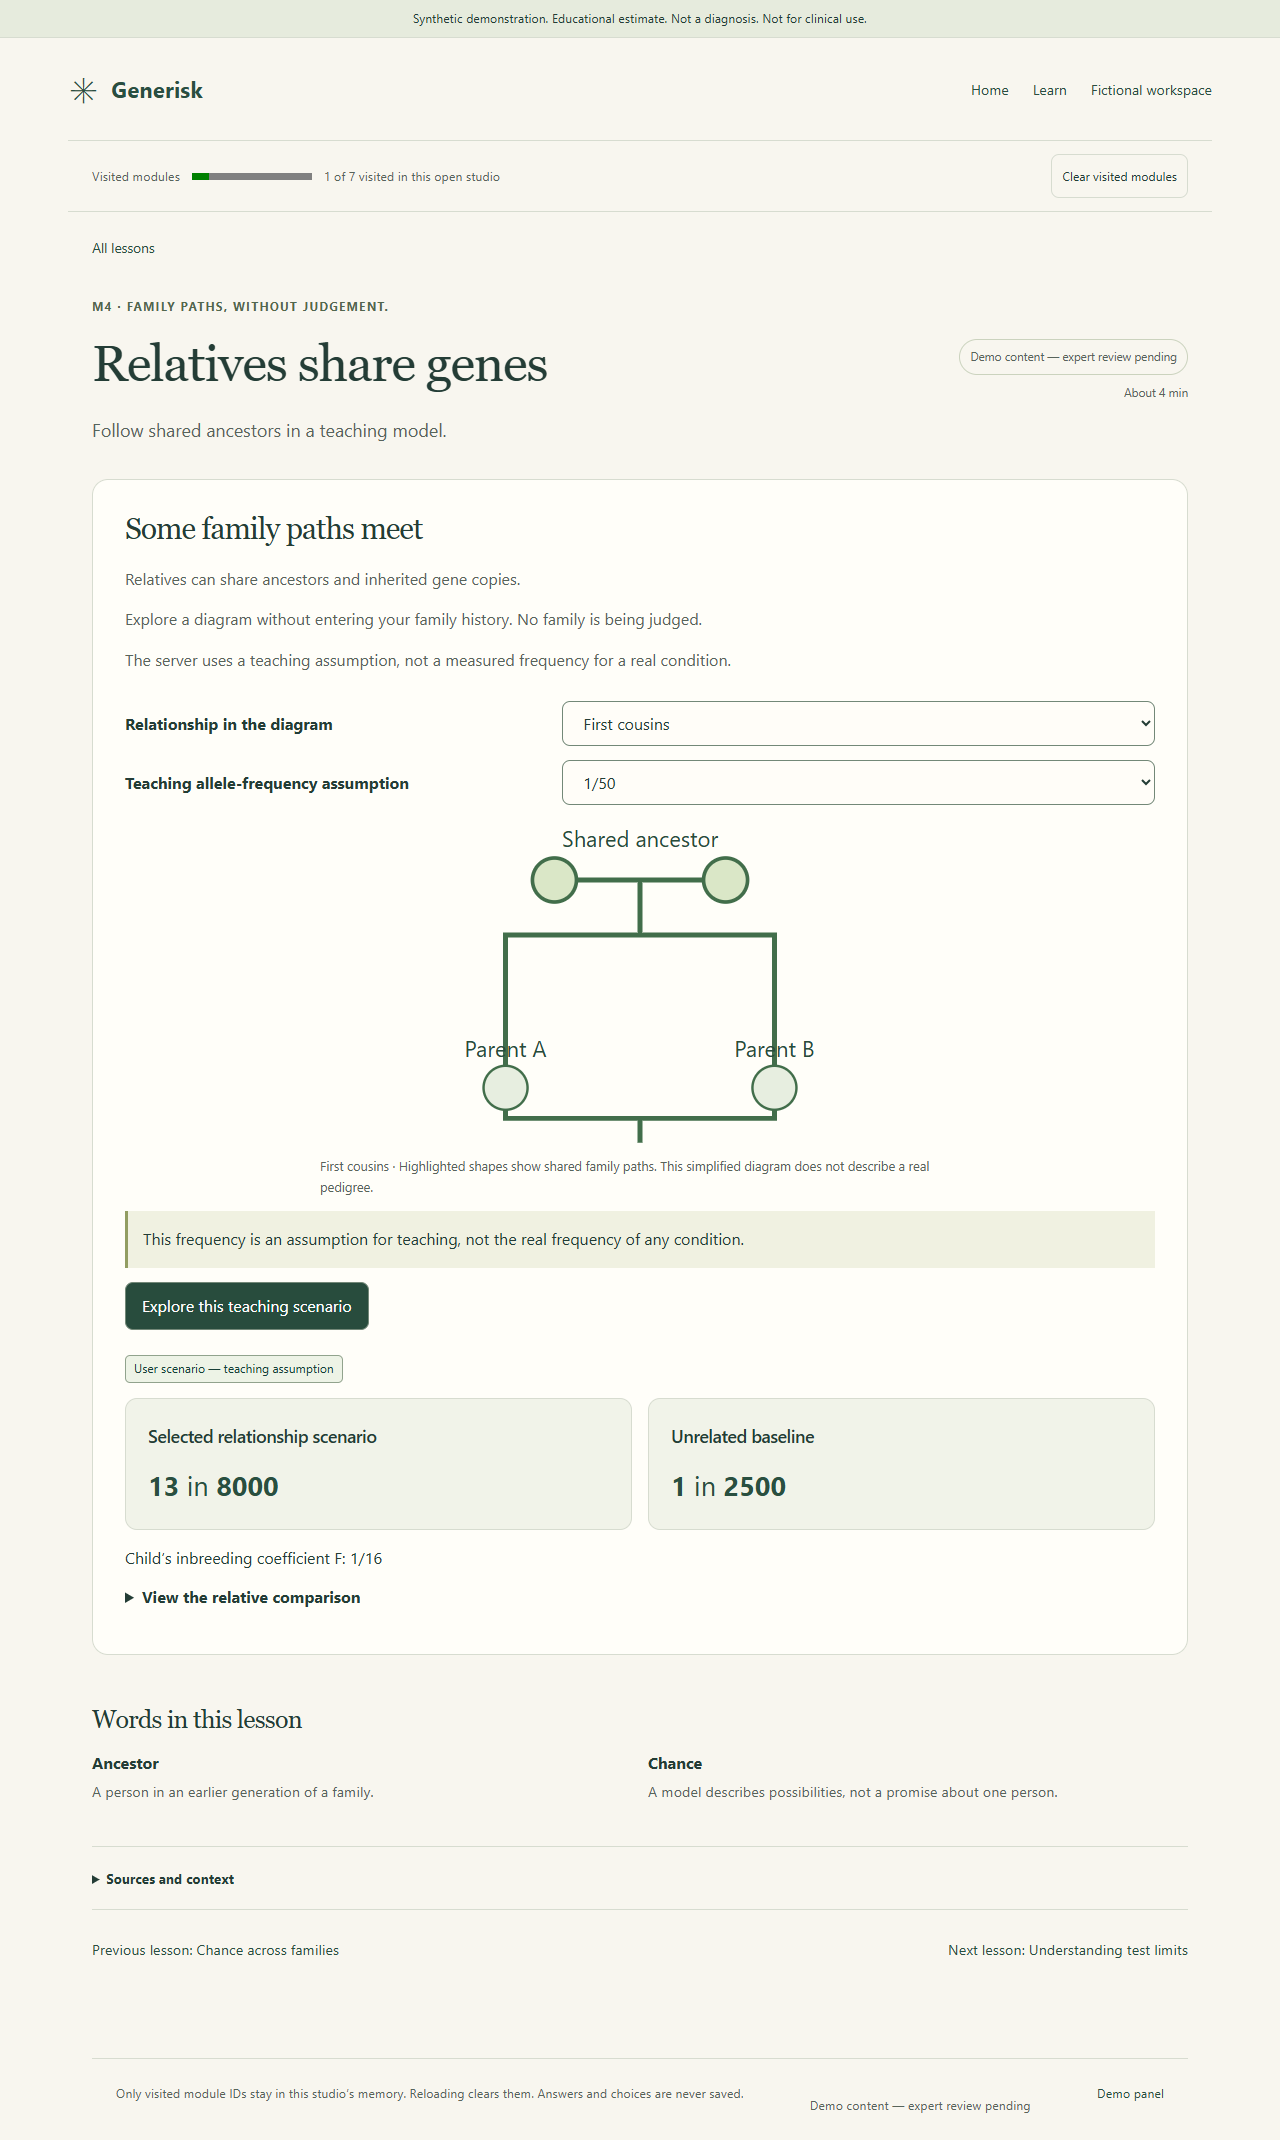
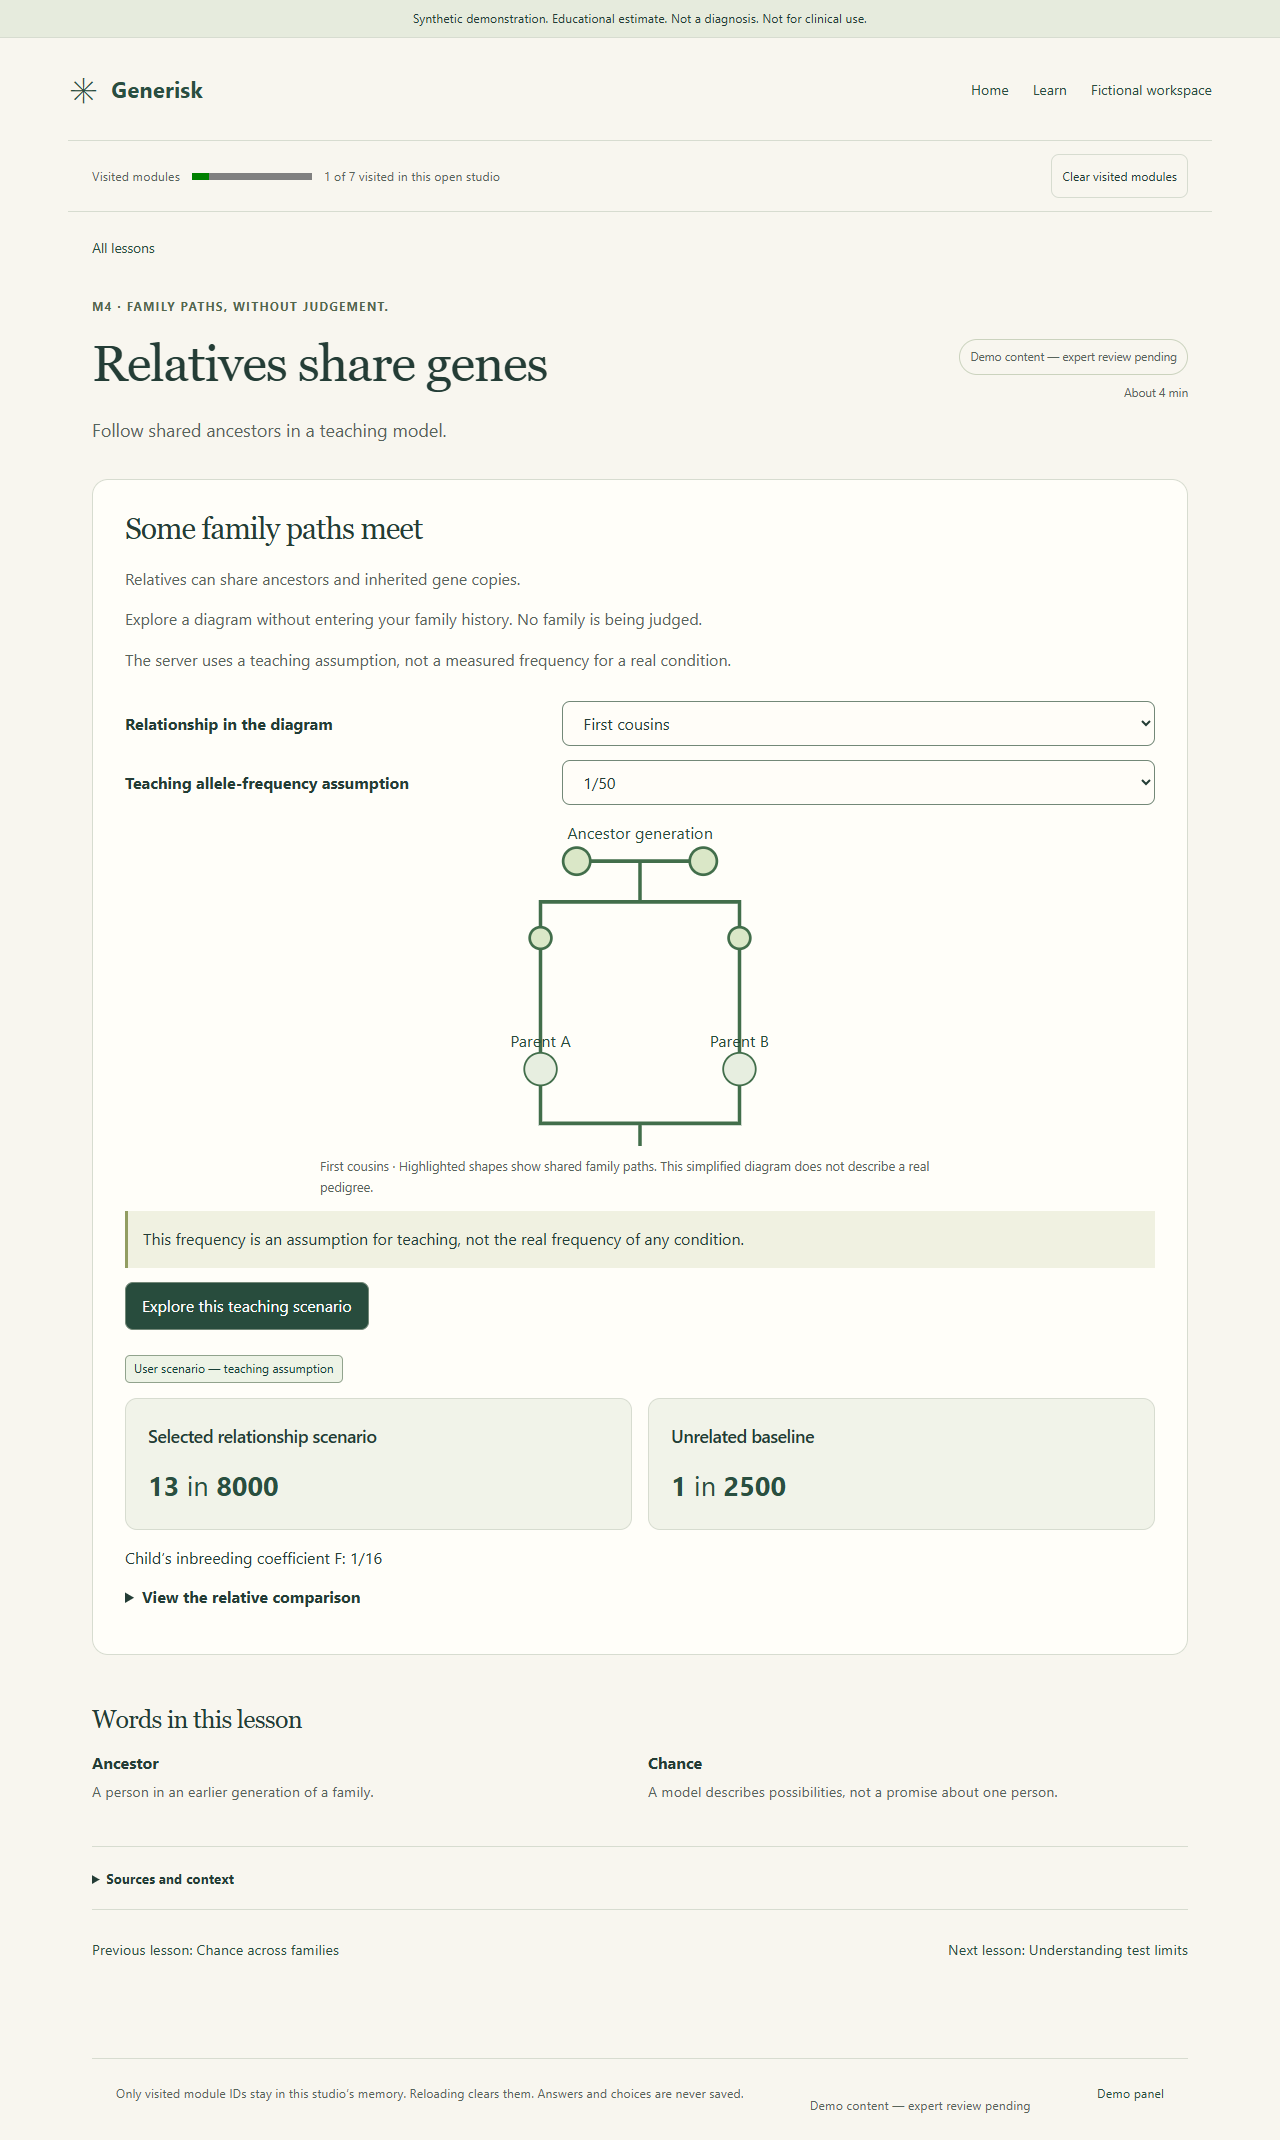
fix(p07): show correct cousin generations with regression coverage

Changed region(s): [[0.375, 0.3701, 0.625, 0.5243]]

diff --git a/apps/web/src/components/learn/server-widgets.tsx b/apps/web/src/components/learn/server-widgets.tsx
@@ -23,44 +23,74 @@ function FamilyDiagram({ relationship }: { relationship: Relationship }) {
   const double = relationship === "double_first_cousins";
   const removed = relationship === "first_cousins_once_removed";
   const second = relationship === "second_cousins";
+  // Each intermediate circle is a generation, not an inferred family member.
+  // Double first cousins share both ancestor couples through two sibling pairs.
+  const ancestorXs = double ? [70, 130, 310, 370] : [150, 290];
+  const intermediate = double
+    ? [
+        { x: 70, y: 130 },
+        { x: 140, y: 130 },
+        { x: 300, y: 130 },
+        { x: 370, y: 130 },
+      ]
+    : related
+      ? [
+          { x: 110, y: 125 },
+          { x: 330, y: 125 },
+          ...(second ? [{ x: 110, y: 200 }] : []),
+          ...(second || removed ? [{ x: 330, y: 200 }] : []),
+        ]
+      : [];
+  const a = { x: double ? 105 : 110, y: removed ? 240 : 270 };
+  const b = { x: double ? 335 : 330, y: removed ? 300 : 270 };
   return (
     <figure className="family-diagram">
-      <svg viewBox="0 0 440 270" role="img" aria-label={ui.family_tree}>
+      <svg viewBox="0 0 440 365" role="img" aria-label={ui.family_tree}>
         <g className={related ? "tree-path shared" : "tree-path"} fill="none">
-          <path
-            d={
-              related
-                ? "M150 45H290M220 45V90H110V215M220 90H330V215"
-                : "M150 45V90H110V215M290 45V90H330V215"
-            }
-          />
-          {double && (
-            <path d="M90 45H150M120 45V115H110M290 45H350M320 45V115H330" />
+          {double ? (
+            <>
+              <path d="M70 40H130M100 40V80H140V130M100 80H300V130" />
+              <path d="M310 40H370M340 40V100H70V130M340 100H370V130" />
+              <path d="M70 130H140M105 130V270M300 130H370M335 130V270" />
+            </>
+          ) : related ? (
+            <path
+              d={`M150 40H290M220 40V85H110V125M220 85H330V125M110 125V${a.y}M330 125V${b.y}`}
+            />
+          ) : (
+            <path d="M150 40V85H110V270M290 40V85H330V270" />
           )}
-          {second && (
-            <path d="M110 90V125H140V165H110M330 90V125H300V165H330" />
-          )}
-          {removed && <path d="M330 155V185H365V215" />}
-          <path d="M110 215V240H330V215M220 240V260" />
+          <path d={`M${a.x} ${a.y}V330H${b.x}V${b.y}M220 330V355`} />
         </g>
-        {(double ? [90, 150, 290, 350] : [150, 290]).map((x) => (
+        {ancestorXs.map((x) => (
           <g
             key={x}
             className={related ? "ancestor-node shared" : "ancestor-node"}
           >
-            <circle cx={x} cy={45} r={18} />
+            <circle cx={x} cy={40} r={15} />
           </g>
         ))}
-        <text x="220" y="18" textAnchor="middle">
+        <text x="220" y="15" textAnchor="middle">
           {ui.ancestor}
         </text>
+        <g className={related ? "ancestor-node shared" : "ancestor-node"}>
+          {intermediate.map(({ x, y }) => (
+            <circle
+              key={`${x}-${y}`}
+              cx={x}
+              cy={y}
+              r={12}
+              data-generation-node="true"
+            />
+          ))}
+        </g>
         <g className="tree-person">
-          <circle cx="110" cy="215" r="18" />
-          <text x="110" y="190" textAnchor="middle">
+          <circle cx={a.x} cy={a.y} r={18} />
+          <text x={a.x} y={a.y - 25} textAnchor="middle">
             {ui.parent_node_a}
           </text>
-          <circle cx={removed ? 365 : 330} cy="215" r="18" />
-          <text x={removed ? 365 : 330} y="190" textAnchor="middle">
+          <circle cx={b.x} cy={b.y} r={18} />
+          <text x={b.x} y={b.y - 25} textAnchor="middle">
             {ui.parent_node_b}
           </text>
         </g>

diff --git a/apps/web/tests/education-widgets.test.tsx b/apps/web/tests/education-widgets.test.tsx
@@ -115,6 +115,25 @@ it("renders family-tree gold natural frequencies and F exactly, clears them on c
     screen.getByText(content.risk.messages["risk.counsellor_context"]),
   ).toBeInTheDocument();
 });
+it("draws the intervening generations for cousin paths without treating cousins as siblings", () => {
+  const { container } = render(<FamilyTree />);
+  const generations = () =>
+    container.querySelectorAll("[data-generation-node]");
+  expect(generations()).toHaveLength(2);
+  for (const [relationship, count] of [
+    ["second_cousins", 4],
+    ["first_cousins_once_removed", 3],
+    ["double_first_cousins", 4],
+    ["unrelated", 0],
+    ["not_sure", 0],
+  ] as const) {
+    fireEvent.change(screen.getByLabelText(ui.relationship), {
+      target: { value: relationship },
+    });
+    expect(generations()).toHaveLength(count);
+  }
+  expect(model).not.toHaveBeenCalled();
+});
 it("renders the residual gold number and native bar bounds without rounding or client risk arithmetic", async () => {
   model.mockResolvedValue(
     result({

diff --git a/README.md b/README.md
@@ -45,7 +45,7 @@ docker compose up --build -d --wait --wait-timeout 180
 
 Open [the demonstration](http://localhost:13000). API [liveness](http://localhost:18000/health/live), [readiness](http://localhost:18000/health/ready) and [local API reference](http://localhost:18000/docs) are available on loopback. Host database port is 15432. No `.env` is necessary: defaults are deliberately public local placeholders; `.env.example` documents optional port overrides. Never use these credentials for real data or external hosting.
 
-The API applies `0001_demo` then additive `0002_identity`, preserving two fictional templates and seeding four local demo accounts. Open [the identity workspace](http://localhost:13000/workspace); its public credentials section lists all logins, including `demo-a` / `demo-a-only` and `demo-b` / `demo-b-only`. Use separate browser profiles/private windows for A/B. Grant processing independently, create/copy a recipient-bound code, accept as B, then grant assessment separately. Withdraw one grant and refresh the other context: neutral unavailability appears. Assessment never grants disclosure; no reviewed output is generated. Empty knowledge and unauthorized access remain unavailable.
+The API applies `0001_demo`, additive `0002_identity` and `0003_reports`, preserving two fictional templates and seeding four local demo accounts. P07 adds no migration. Open [the identity workspace](http://localhost:13000/workspace); its public credentials section lists all logins, including `demo-a` / `demo-a-only` and `demo-b` / `demo-b-only`. Use separate browser profiles/private windows for A/B. Grant processing independently, create/copy a recipient-bound code, accept as B, then grant assessment separately. Withdraw one grant and refresh the other context: neutral unavailability appears. Assessment never grants disclosure; no reviewed output is generated. Empty knowledge and unauthorized access remain unavailable.
 
 Review the historical [P03 handoff](handoffs/P03-to-P04.md), [evidence](docs/evidence/p03-validation.md), [API](docs/p03-api.md) and [ADR-006](docs/adr/ADR-006-demo-identity-consent.md) for identity controls; the [P07 handoff](handoffs/P07-to-P08.md) records the current delivery. Clinical-production governance stays BLOCKED.
 

diff --git a/docs/education-studio.md b/docs/education-studio.md
@@ -16,7 +16,7 @@ Synthetic demonstration. Educational estimate. Not a diagnosis. Not for clinical
 | M6 `options` | Four equal neutral cards, no selected route; memory-only questions checklist; UAE availability caveat |
 | M7 `your-result` | Fictional own/shared/unavailable previews; ResultExplainer also renders the authenticated workspace output |
 
-The family tree illustrates shared paths; it is not a pedigree editor or a family-history assessment. One hundred dots represent different fictional families, one pregnancy each. The fixed single-gene recessive model does not describe every gene, condition or person.
+The family tree illustrates shared paths, including the intervening generations for cousin relationships; it is not a pedigree editor or a family-history assessment. A regression test checks generation nodes for each relationship token. One hundred dots represent different fictional families, one pregnancy each. The fixed single-gene recessive model does not describe every gene, condition or person.
 
 ## Content and language boundary
 
